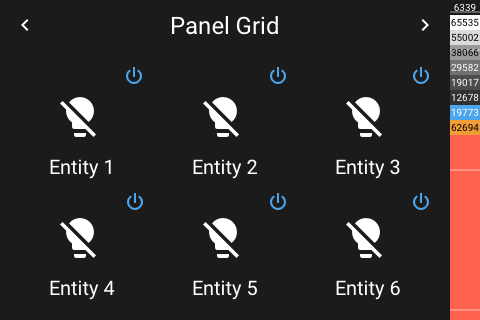
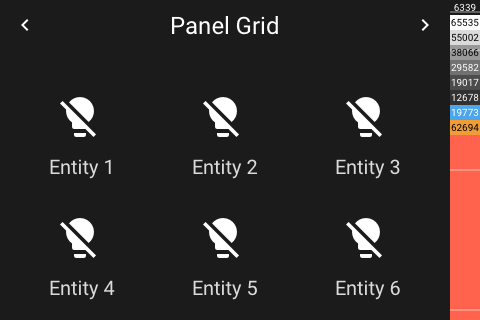
updated docs and translations

diff --git a/docs/panels/panel_grid.md b/docs/panels/panel_grid.md
@@ -5,54 +5,88 @@
 - [Panel Grid](#panel-grid)
   - [About](#about)
   - [Config](#config)
-    - [Background Color Mode `back_color_mode`](#background-color-mode-back_color_mode)
-    - [Background Color Seed `back_color_seed`](#background-color-seed-back_color_seed)
-    - [Entity Background Color `back_color`](#entity-background-color-back_color)
-    - [Entity Off Button `show_off_button`](#entity-off-button-show_off_button)
+    - [Text Color `text_color`](#text-color-text_color)
+    - [Power Color `power_color`](#power-color-power_color)
+    - [Background Color `back_color`](#background-color-back_color)
+    - [Color Mode `color_mode`](#color-mode-color_mode)
+    - [Color Seed `color_seed`](#color-seed-color_seed)
+    - [Show a Power Button `show_power_button`](#show-a-power-button-show_power_button)
   - [Screens](#screens)
 
 ## About
 
 `type: grid`
 
-The entities grid panel provides a panel with 6 big buttons.
+The entities grid panel provides a panel with 6 big buttons. If more than 6 entities are provided, the entities can be scrolled.
 
-This panel can be also used to organize panels and subpanels.
-
-Background colors can be set for the individual tiles. Also a random background generation is possible.
+This panel can be also used to organize panels and subpanels. Colors can be set for the individual tiles. Also a random color mode is available.
 
 ## Config
 
 ```yaml
-# Default config with custom entity settings
+# Default config with default entity settings
 panels:
   - type: grid
-    back_color_mode: null
-    back_color_seed: null
+    text_color: null
+    power_color: null
+    back_color: null
+    color_mode: null
+    color_seed: null
+    show_power_button: false
     entities:
       - entity: light.example_light
+        text_color: null
+        power_color: null
         back_color: null
-        show_power_off: false
+        color_mode: null
+        color_seed: null
+        show_power_button: null
 ```
 
 Example config with color backgrounds:
 
 ```yaml
-# grid panel with 4 entities and a vibrant back color
+# grid panel with 7 entities and a vibrant color mode
 panels:
   - type: grid
-    back_color_mode: 'vibrant'
-    back_color_seed: 938
+    color_mode: vibrant
+    color_seed: 938
     entities:
       - entity: light.example_light
-      - entity: light.example_light
-      - entity: light.example_light
-      - entity: light.example_light
+      - entity: light.example_light1
+      - entity: light.example_light2
+      - entity: light.example_light3
+      - entity: light.example_light4
+      - entity: light.example_light5
+      - entity: light.example_light6
 ```
 
-### Background Color Mode `back_color_mode`
+### Text Color `text_color`
 
-Possible `back_color_mode` values:
+Set the text color of the grid button using `text_color`.
+
+### Power Color `power_color`
+
+Set the power button color of the grid button using `power_color`.
+
+### Background Color `back_color`
+
+Set the background color of a grid button using `back_color`.
+
+```yaml
+panels:
+
+  - type: grid
+    back_color: 6339
+    # back_color: [49, 49, 49]
+    entities:
+      - entity: light.example_light
+        back_color: 6339
+```
+
+### Color Mode `color_mode`
+
+Possible `color_mode` values:
 
 - `null` No background (default)
 - `vibrant` Random background color with vibrant colors
@@ -62,35 +96,61 @@ Possible `back_color_mode` values:
 - `lighten` Background color with a light color
 - `darken` Background color with a dark color
 
-### Background Color Seed `back_color_seed`
+```yaml
+panels:
+
+  - type: grid
+    # Setting a color mode
+    color_mode: vibrant
+    color_seed: 18
+
+  # Overwriting a color mode for a single entity
+  - type: grid
+    color_mode: vibrant
+    color_seed: 18
+    entities:
+      - entity: light.example_light
+      - entity: light.example_light1
+        # disable color mode for this entity
+        color_mode: null
+      - entity: light.light_example2
+```
+
+### Color Seed `color_seed`
 
 Value: int value between 0-1000.
 
 The generated palettes can be reproduced using a seed value. The same seed will generate the same colors.
 
-### Entity Background Color `back_color`
-
-The entities used in this panel can define a back_color using `back_color`
-
 ```yaml
 panels:
+
   - type: grid
-    entities:
-      - entity: light.example_light
-        back_color: 12678
-        # back_color: [49, 49, 49]
+    color_mode: vibrant
+    # Setting a color seed
+    color_seed: 18
 ```
 
-### Entity Off Button `show_off_button`
+### Show a Power Button `show_power_button`
 
-The entities can show a off button by setting `show_off_button` to true.
+The entities can show a power button by setting `show_power_button` to true.
 
 ```yaml
 panels:
+
+  # for a single entity
   - type: grid
     entities:
       - entity: light.example_light
-        show_off_button: true
+        show_power_button: true
+      - entity: light.example_light1
+
+  # for all entities
+  - type: grid
+    show_power_button: true
+    entities:
+      - entity: light.example_light
+      - entity: light.example_light1
 ```
 
 ## Screens

diff --git a/docs/panels/popup_unlock.md b/docs/panels/popup_unlock.md
@@ -25,9 +25,11 @@ The unlock code needs to be a string.
 
 ```yaml
 panels:
+
   # this panel will be locked and can be unlocked using the unlock code
   - type: grid
     title: Unlock Panel
+    # set a unlock code
     unlock_code: "1234"
 ```
 

diff --git a/docs/panels/panel_weather.md b/docs/panels/panel_weather.md
@@ -18,6 +18,7 @@ The weather panel can be used as a "screensaver". It will show weather details a
 
 ```yaml
 panels:
+
   # weather panel
   - type: weather
     entity: weather.home

diff --git a/docs/panels/panel_clock.md b/docs/panels/panel_clock.md
@@ -20,6 +20,7 @@ The clock panel shows a big clock and uses 4 entities for the weather conditions
 
 ```yaml
 panels:
+
   # clock panel
   - type: clock
     entity: weather.home
